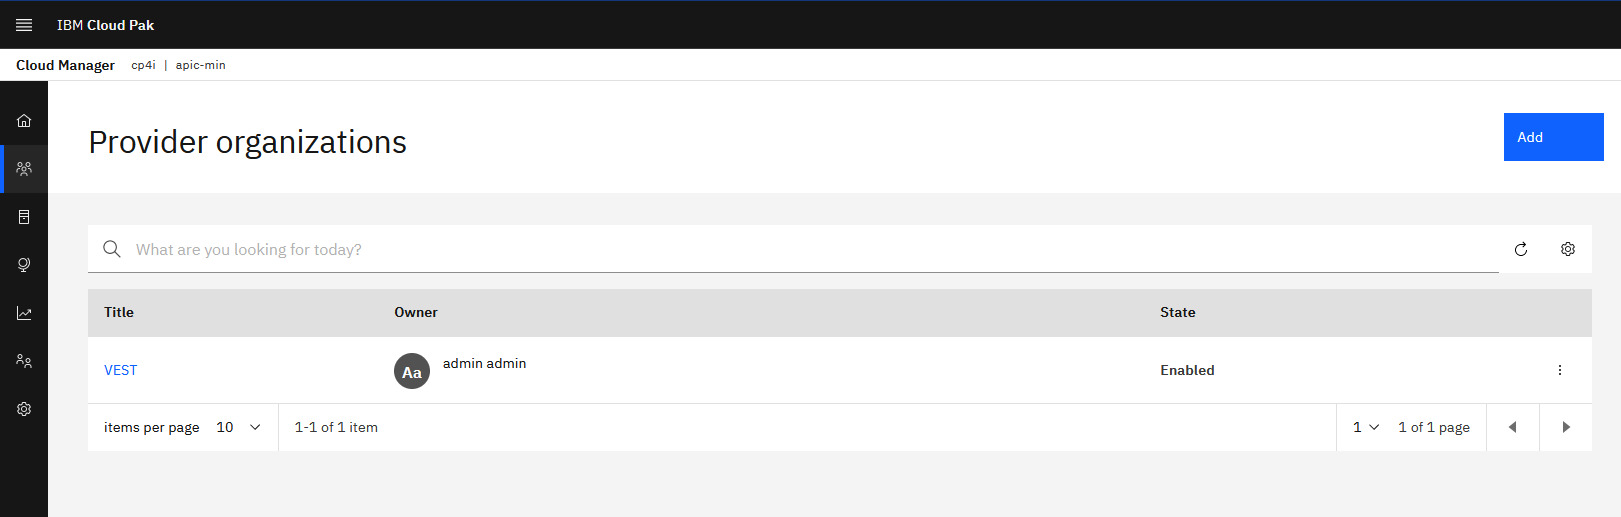
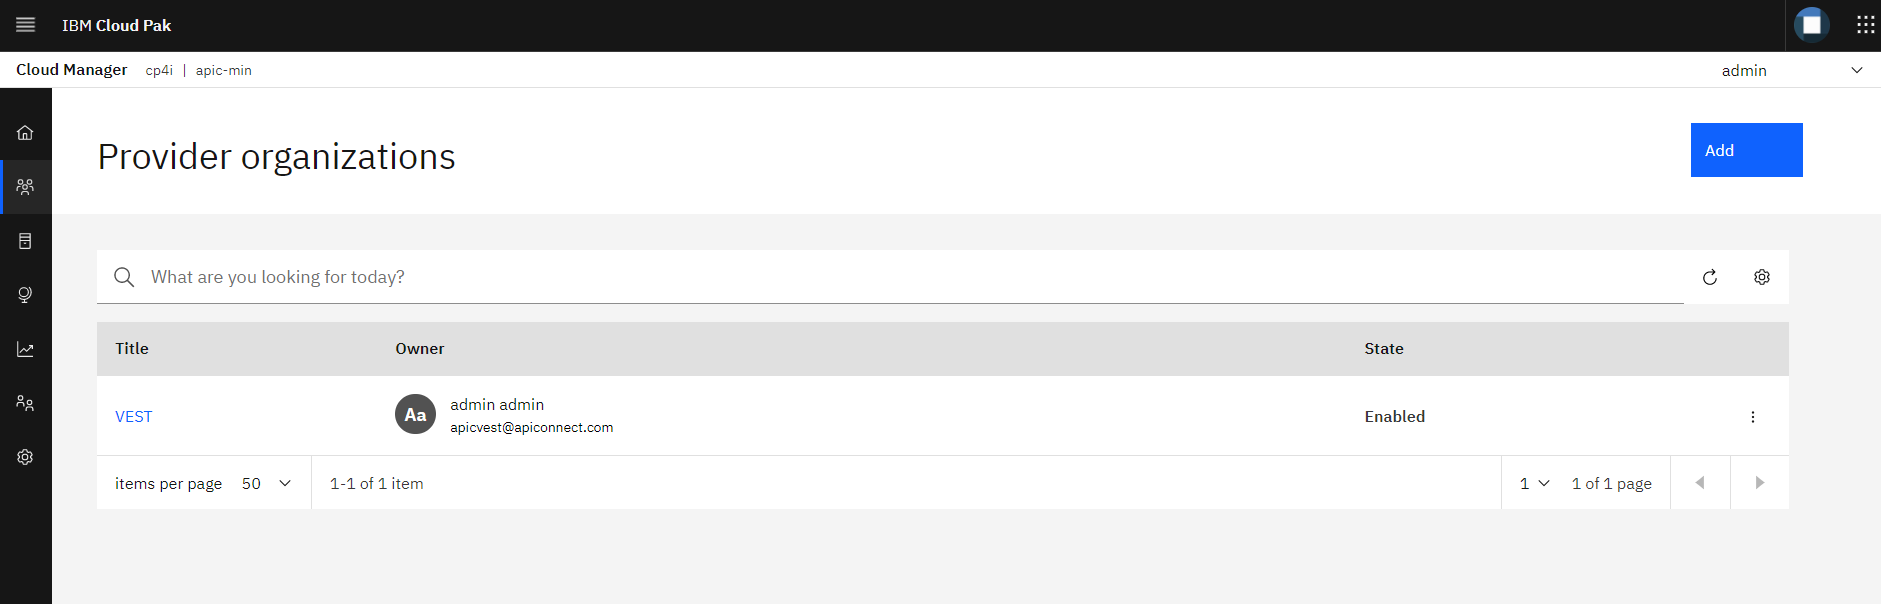
updated lab0

diff --git a/instructions/Lab0/index.md b/instructions/Lab0/index.md
@@ -103,15 +103,14 @@ API](https://github.com/ibm-ecosystem-lab/APICv10/tree/main/instructions/Lab8)
 	
 1. Click Resources icon in the left navigation menu or Manage Resources tile.
 
-2. Cick Notifications and then Click Create button.
+2. Cick Notifications and then Click Dummy mail server.
 
 	![](images/notifications_email.png)
 	
-3. For the Title, enter [[apic email server]]
-	Address, enter [[smtp-relay.sendinblue.com]]
+3. For the Address, enter [[smtp-relay.sendinblue.com]]
 	Port, enter [[587]]
-	Authenticate user, enter [[]]
-	Authenticate password, enter [[]]
+	Authenticate user, enter [[apic.vest@gmail.com]]
+	Authenticate password will be provided by the instructor.
 	as shown below.
 	
 	![](images/email_configuration.png)	
@@ -122,6 +121,17 @@ API](https://github.com/ibm-ecosystem-lab/APICv10/tree/main/instructions/Lab8)
 	![](images/test_email.png)	
 	
 	Make sure that the email is sent successfully and click **Save**.
+	
+ Configure sender email address
+===========================================================================================
+
+1. Click on admin in the top navigation and select My Account.
+
+	![](images/admin_myaccount.png)	
+
+2. Set the email address [[apicvest@apiconnect.com]] and Click **Save**.	
+
+	![](images/admin_account_email.png)	
 
  Create a Provider Organization
 ===========================================================================================
@@ -129,27 +139,18 @@ API](https://github.com/ibm-ecosystem-lab/APICv10/tree/main/instructions/Lab8)
 1. Click on Provider Organization icon in the left navigation menu OR 
    Click on Manage Organizations tile from the Cloud Manager console Home.
    
-2. Click [[Add-\>Invite organization owner]] to Invite owner of the provider organization.
+2. Click [[Add-\>Create organization]] to create the provider organization.
    
    ![](images/provider_org.png)
 
-3. Specify your email address as the Owner's email address and Click **Invite**.
-
-   ![](images/invite_owner.png)
+3. For the Title, enter [[VEST]]
+   Select [[Common services user registry]] for user registry.
+   Type [[admin]] for the existing username.
+   Click **Create**
    
-4. Notice appears when the activation email is sent. 
-   
-5. Copy the Activation link (from notice or as recieved in the email) and paste it in new browser window. 
+   ![](images/provider_org_create.png)   
 
-   ![](images/org_activation.png)
-   
-6. Enter [[VEST]] as the New Organization Title and Click **Sign up**.
-
-7. Provider Organization should be created successfully as shown below.
-
-   ![](images/provider_org_created.png)
-   
-   Provider organization in Cloud Manager console as shown below.
+7. Provider Organization should be created successfully as shown below.   
 
    ![](images/provider_org_cm.png)      
 
